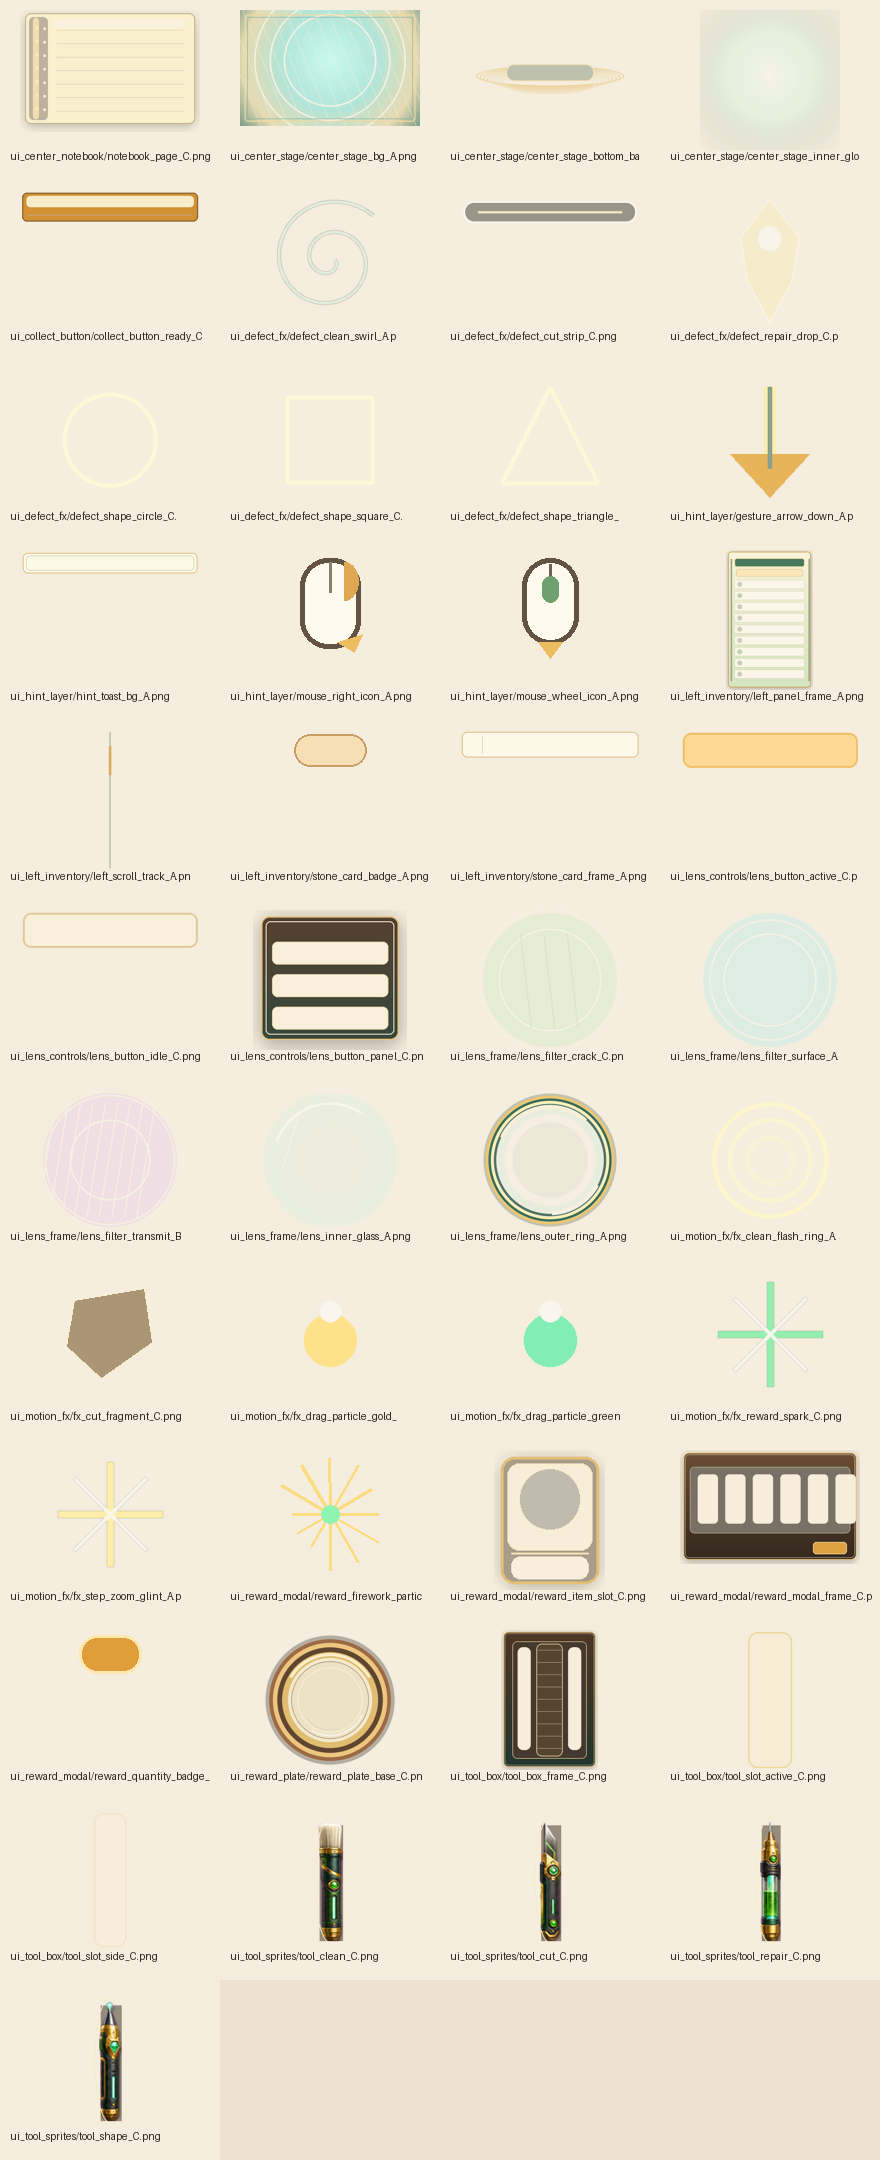
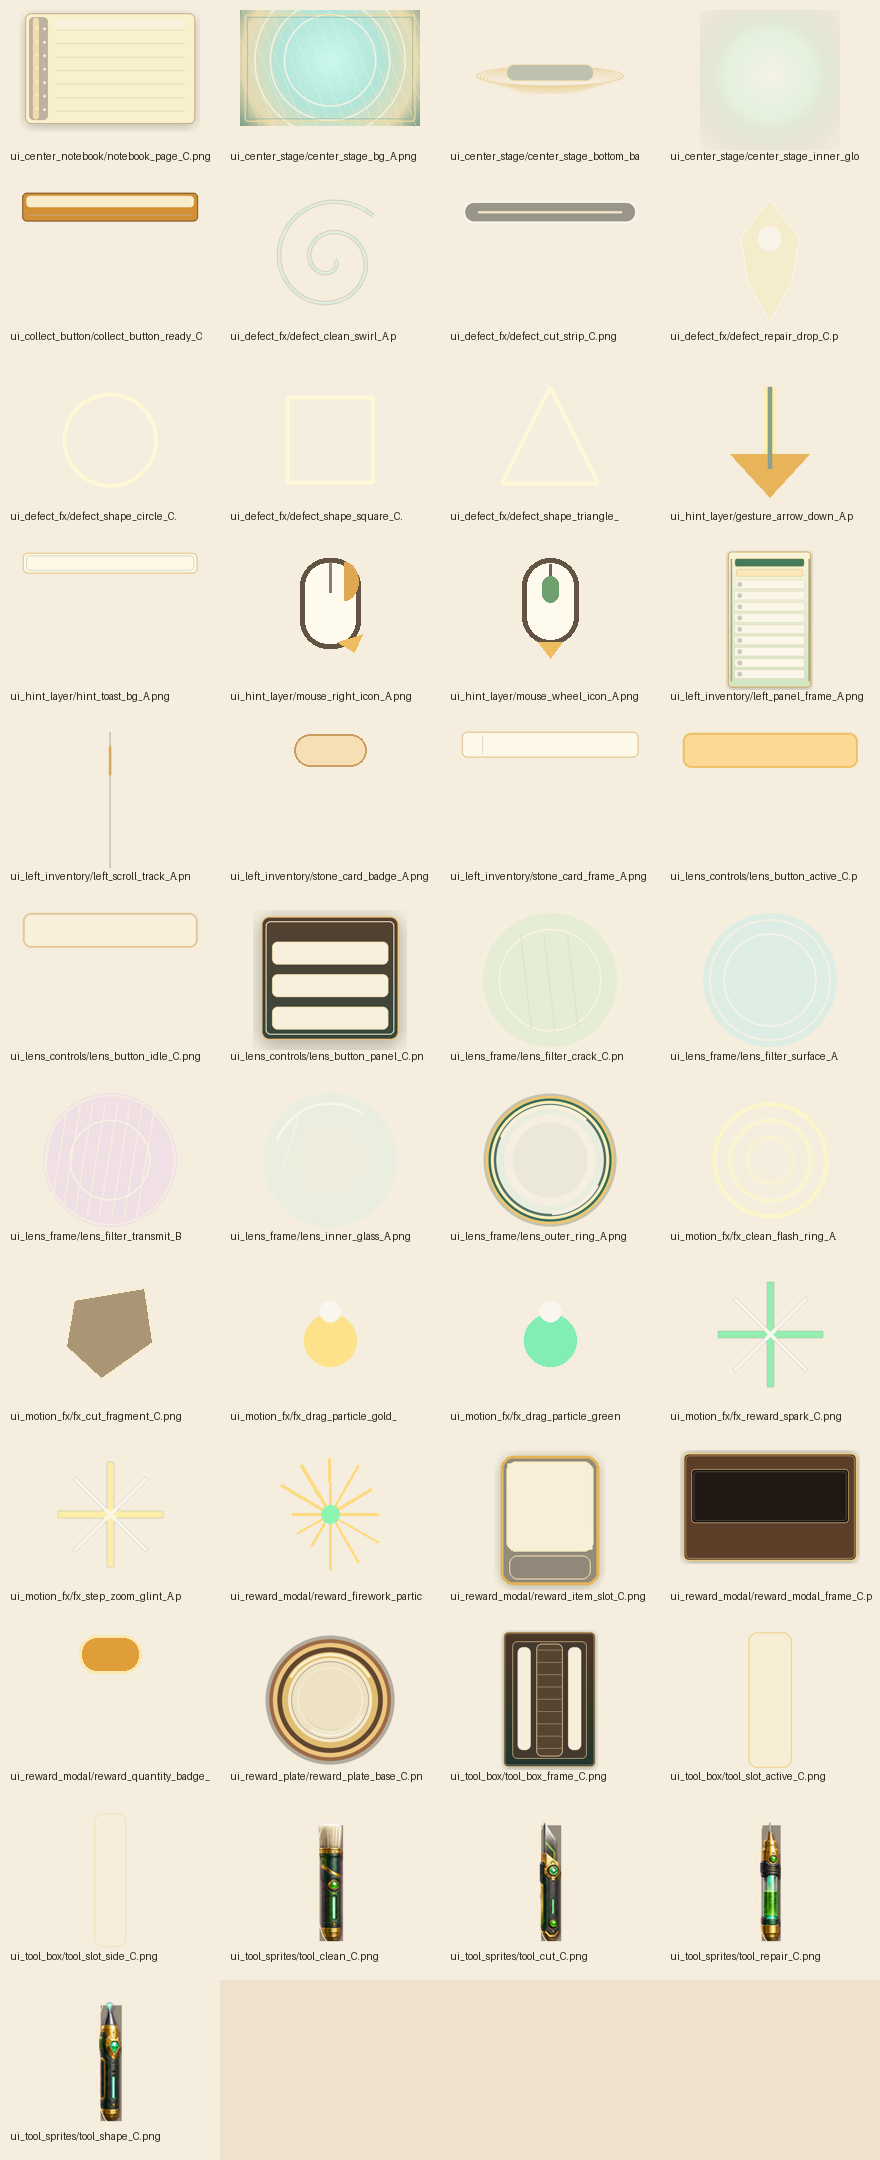
Simplify v26 reward modal frame

Changed region(s): [[0.767, 0.6514, 0.9818, 0.7444], [0.5523, 0.6514, 0.7057, 0.7444]]

diff --git a/htmlDemo简单互动玩法/宝石鉴定html_v26RealAsset版.html b/htmlDemo简单互动玩法/宝石鉴定html_v26RealAsset版.html
@@ -2252,16 +2252,16 @@
     }
     body.v26-real-asset .reward-item{
         border:0;
-        border-radius:0;
-        background:none;
+        border-radius:10px;
+        background:var(--v26-reward-slot) center / 116px 146px no-repeat;
         outline:0;
         box-shadow:none;
     }
     body.v26-real-asset .reward-gem-image{
-        left:10px;
-        right:10px;
-        top:4px;
-        height:96px;
+        left:14px;
+        right:14px;
+        top:12px;
+        height:84px;
         filter:drop-shadow(0 12px 13px rgba(0,0,0,.34));
     }
     body.v26-real-asset .reward-amount{

diff --git a/htmlDemo简单互动玩法/codex_changelist_宝石鉴定v24.md b/htmlDemo简单互动玩法/codex_changelist_宝石鉴定v24.md
@@ -239,3 +239,26 @@
 
 - 收集奖励里不再使用统一奖励槽位背景，改为透明 item 容器，保留每个宝石自己的图片背景/材质作为主视觉。
 - 奖励宝石图片区域放大，数量徽章和名称仍保留。
+## 2026-05-22 15:21 +08:00 - Codex 1 号
+
+本轮认真拆分并修正收集奖励弹窗图层。
+
+检查结论：
+
+- 错位主要来自 `reward_modal_frame_C.png` 背景图本身烘焙了 6 个固定奖励槽。
+- 前景奖励列表是 DOM 横向滚动列表，数量、间距、滚动位置都会变，所以固定烘焙槽会和前景宝石/文字层错开。
+- 正确结构是：弹窗背景只负责外框和暗色展示区；每颗宝石自己的高亮框由 `reward_item_slot_C.png` 单独负责。
+
+改动：
+
+- 重绘 `ui_reward_modal/reward_modal_frame_C.png`：去掉固定奖励槽，只保留外框、暗色展示区和领取按钮区域。
+- 重绘 `ui_reward_modal/reward_item_slot_C.png`：恢复每颗宝石自己的金色高亮小框。
+- v26 HTML 重新启用每颗宝石的独立高亮框背景，同时前景宝石、数量、名字继续以该小框为坐标基准。
+- 展示区整体压暗，避免弹窗叠在页面上时偏白。
+- 更新 `asset-manifest.json` 与 `ui_v26_asset_contact_sheet.png`。
+
+补充修正：
+
+- 按用户要求进一步简化 `reward_modal_frame_C.png`：只保留一个浅色外框和一个深色内框。
+- 删除背景图里的右下角按钮底座，按钮由按钮自己的图片负责。
+- 弹窗背景图内不再包含奖励槽、竖条、按钮区域或其他会和前景 UI 对齐冲突的元素。

diff --git a/htmlDemo简单互动玩法/codex_handoff_宝石鉴定原型.md b/htmlDemo简单互动玩法/codex_handoff_宝石鉴定原型.md
@@ -755,3 +755,22 @@ Q/E 只在这三个工具中循环：
 后续注意：
 
 - 如果还要做奖励格图片，需要先按最终 DOM 尺寸重新设计整套卡槽，而不是直接把装饰图铺成背景。
+# 2026-05-22 15:21 +08:00 Codex 1 号交接补充
+
+本轮对收集奖励弹窗做了图层检查和修正。
+
+结论：
+
+- 之前错位的核心原因是 `reward_modal_frame_C.png` 背景图里烘焙了固定奖励槽位。
+- DOM 前景奖励列表是横向滚动的，固定背景槽无法可靠对齐。
+- 后续不要再把具体奖励格烘进弹窗背景图。
+
+当前结构：
+
+- `reward_modal_frame_C.png`：只负责一个浅色外框和一个深色内框。
+- `reward_item_slot_C.png`：负责每颗宝石自己的金色高亮框。
+- HTML：每个 `.reward-item` 使用自己的高亮框背景，宝石图、数量、名称按这个小框对齐。
+
+注意：
+
+- 背景图里不要再画奖励槽、竖条、按钮底座；按钮应由按钮自己的图片/样式负责。
